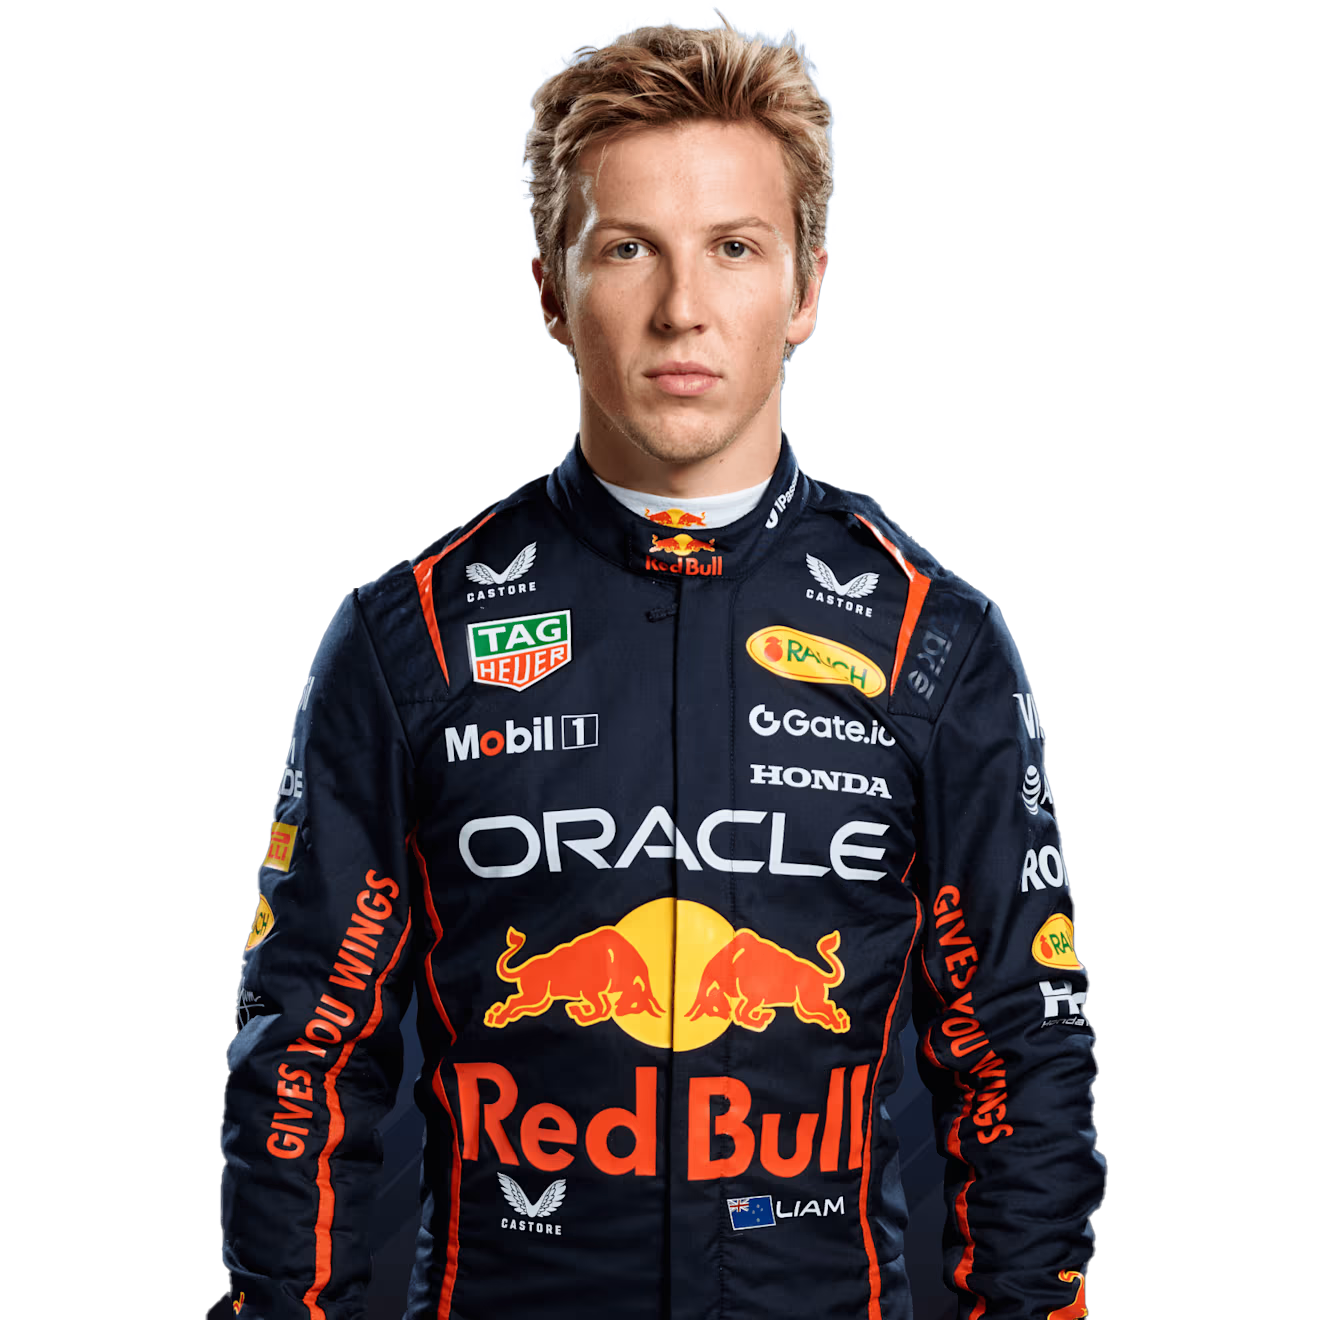
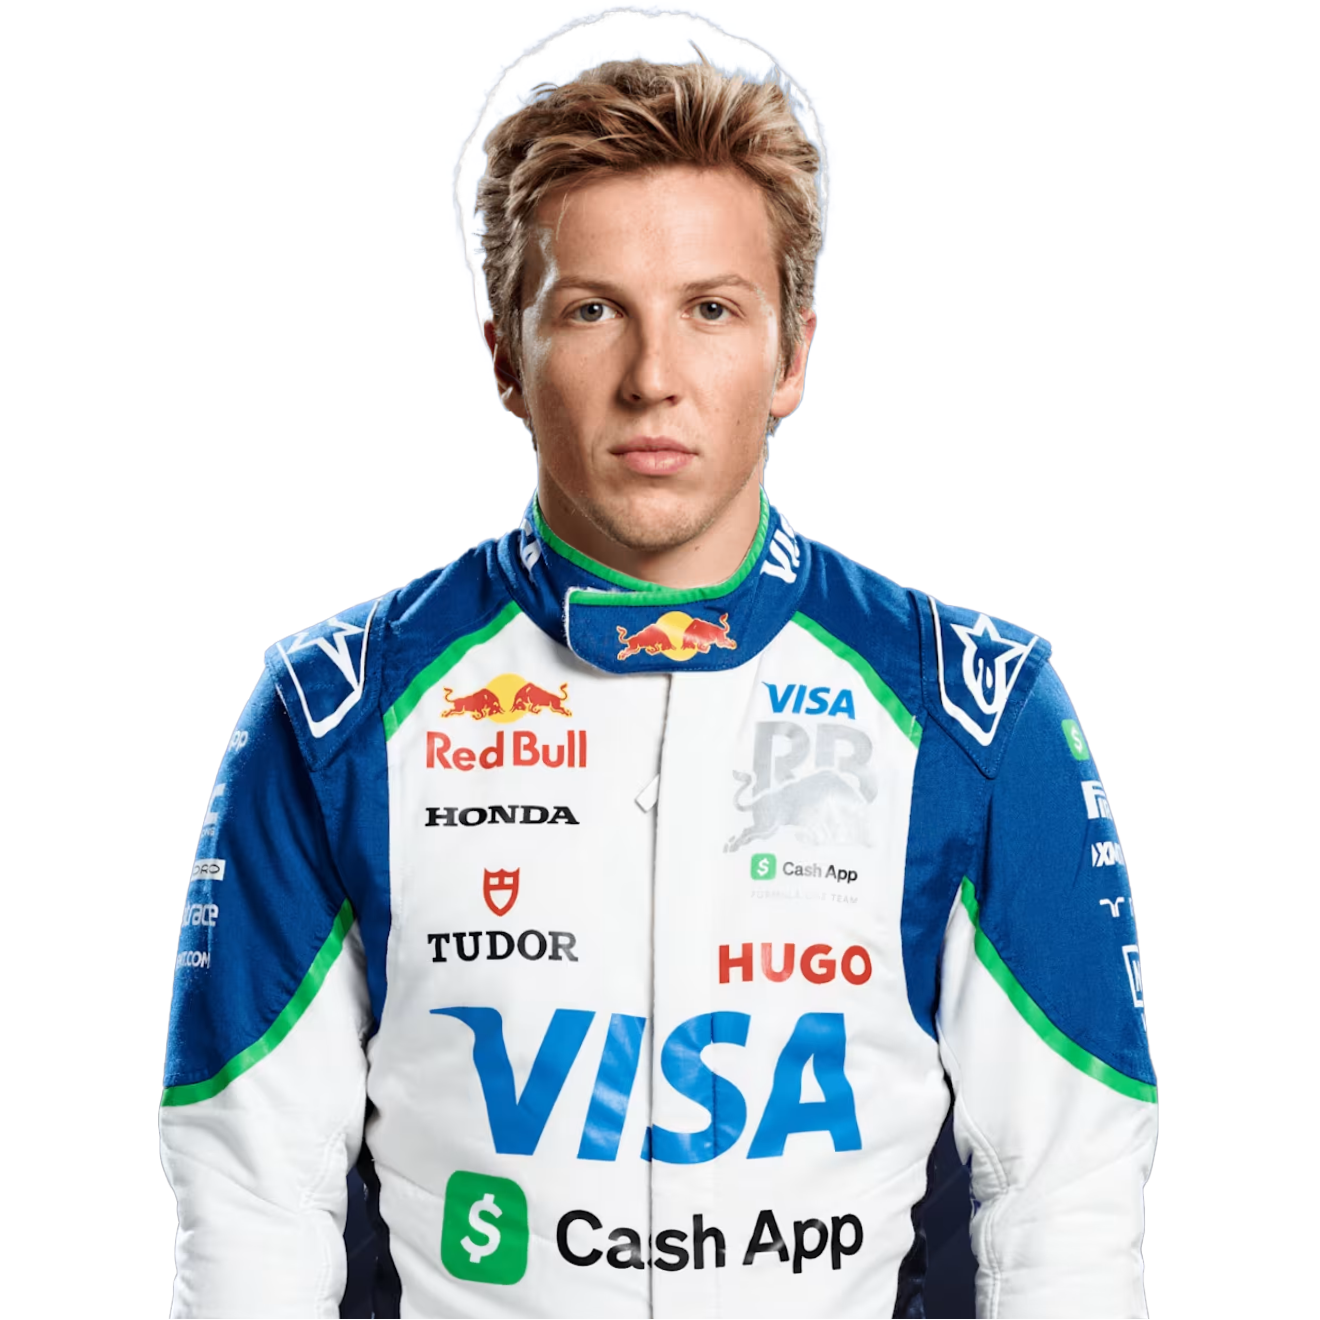
updated driver images

diff --git a/actrollvision/driverrankings/index.html b/actrollvision/driverrankings/index.html
@@ -10,6 +10,7 @@
   <script src="https://cdnjs.cloudflare.com/ajax/libs/Sortable/1.15.6/Sortable.min.js"></script>
 </head>
 <body>
+  
   <div class="tierlist">
     <div class="numbering">
       <svg viewBox="0 0 100 100" xmlns="http://www.w3.org/2000/svg">
@@ -84,7 +85,7 @@
       <div><img src="driverimgs/hadjar.png" alt="Hadjar"></div>
       <div><img src="driverimgs/hamilton.png" alt="Hamilton"></div>
       <div><img src="driverimgs/hulkenberg.png" alt="Hulkenberg"></div>
-      <div><img src="driverimgs/lawson.png" alt="Lawson"></div>
+      <div><img src="driverimgs/lawson2.png" alt="Lawson"></div>
       <div><img src="driverimgs/leclerc.png" alt="Leclerc"></div>
       <div><img src="driverimgs/norris.png" alt="Norris"></div>
       <div><img src="driverimgs/ocon.png" alt="Ocon"></div>
@@ -92,10 +93,9 @@
       <div><img src="driverimgs/russell.png" alt="Russell"></div>
       <div><img src="driverimgs/sainz.png" alt="Sainz"></div>
       <div><img src="driverimgs/stroll.png" alt="Stroll"></div>
-      <div><img src="driverimgs/tsunoda.png" alt="Tsunoda"></div>
+      <div><img src="driverimgs/tsunoda2.png" alt="Tsunoda"></div>
       <div><img src="driverimgs/verstappen.png" alt="Verstappen"></div>
     </div>
   </div>
-  
 </body>
 </html>

diff --git a/actrollvision/driverrankings/style.css b/actrollvision/driverrankings/style.css
@@ -35,6 +35,8 @@ body {
   );
 }
 
+
+
 .tierlist {
   display: grid;
   max-width: 90vmin;
@@ -47,7 +49,6 @@ body {
     &.numbering {
       > svg {
         background: hsl(0 0 100% / 0.2);
-
         outline: 1px solid grey;
 
         > text {
